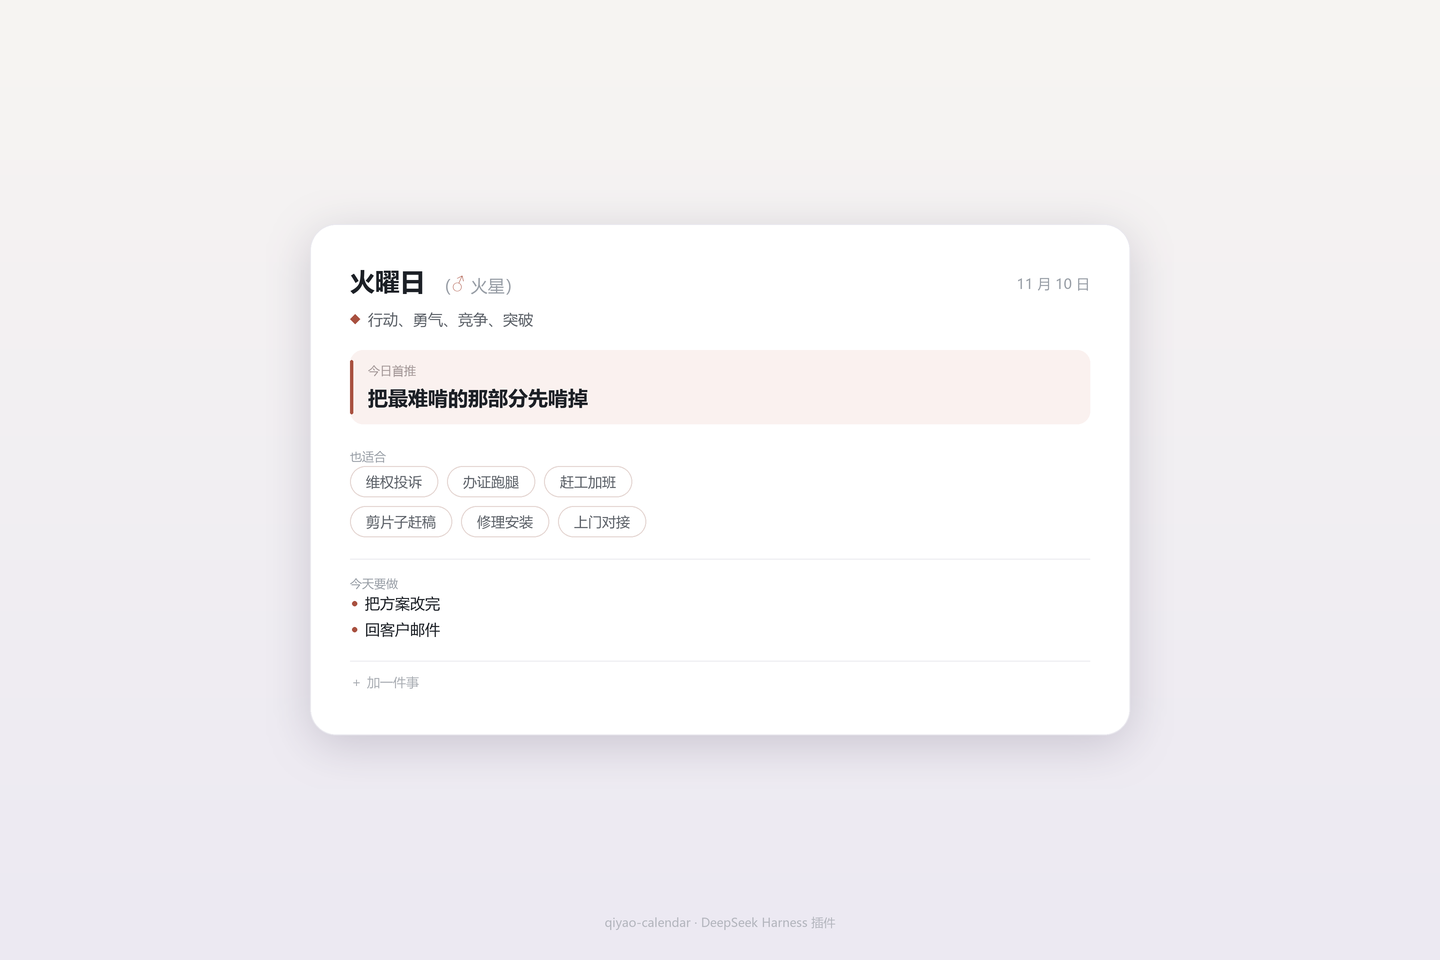
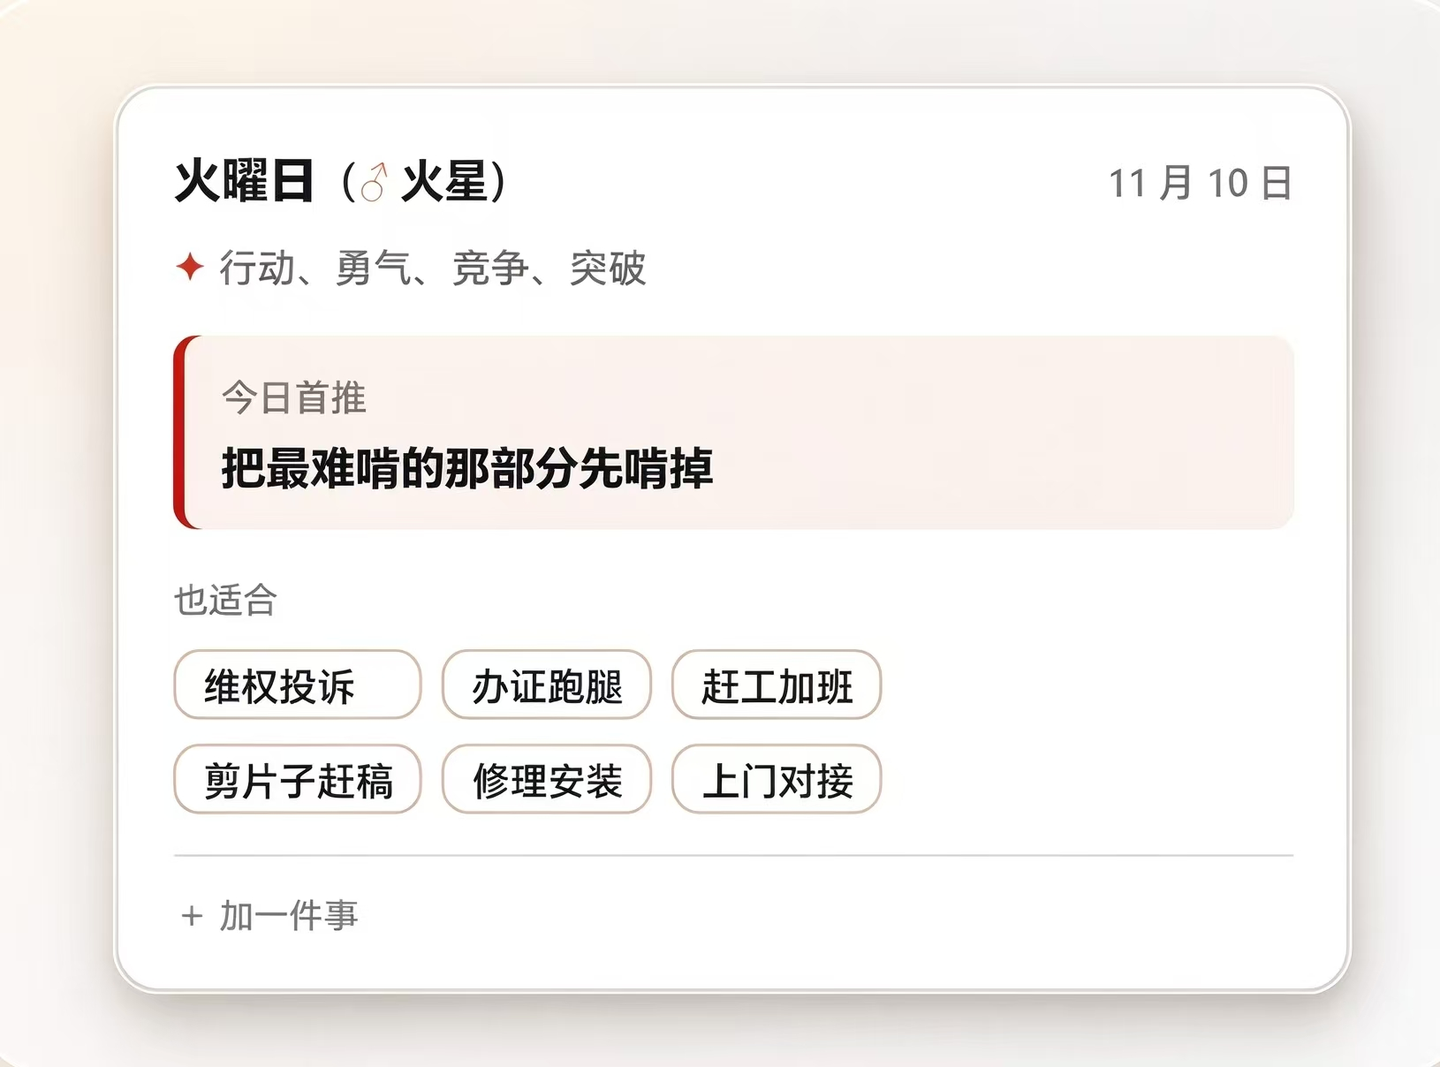
docs: 预览图换成真实界面截图 (1.9.3)

diff --git a/README.md b/README.md
@@ -120,9 +120,8 @@
 │  ├─ client-body.txt    # 按钮与浮层的源码
 │  ├─ build-client.mjs   # 把 shared 与 data 内联进 client.js
 │  ├─ check.mjs          # 数量、去重、构建一致性
-│  ├─ make-preview.py    # 重画 docs/preview.png（需 Pillow，发布前手工跑）
 │  └─ test-items.mjs     # 日期解析与追加事项的断言测试
-└─ docs/preview.png      # 预览图，用 scripts/make-preview.py 生成，不是截图
+└─ docs/preview.png      # 预览图（当前界面的样子）
 ```
 
 改文案或改解析逻辑：
@@ -133,11 +132,7 @@ npm run check     # 数量、跨曜重复、client.js 是否最新
 npm test          # 日期与事项解析的断言
 ```
 
-改了界面要重拍预览图（`docs/preview.png` 必须是当前界面的样子，市场检查会比对）：
-
-```
-python scripts/make-preview.py docs/preview.png
-```
+改了界面要重拍预览图——`docs/preview.png` 必须是当前界面的样子，市场检查会比对。
 
 三个一起跑：`npm run verify`。改完重装插件、重启客户端（客户端插件是启动时打包的）。
 

diff --git a/CHANGELOG.md b/CHANGELOG.md
@@ -1,5 +1,10 @@
 # Changelog
 
+## 1.9.3
+
+- 预览图换成实际界面的截图（1440 宽），替换掉之前手绘的那版
+- 移除 `scripts/make-preview.py`：预览图以真实界面为准，不再靠脚本伪造
+
 ## 1.9.2
 
 - README 的安装说明改成实测口径：推荐下载 ZIP 后拖入；填仓库地址需要 git + GitHub SSH 密钥，普通机器走不通
